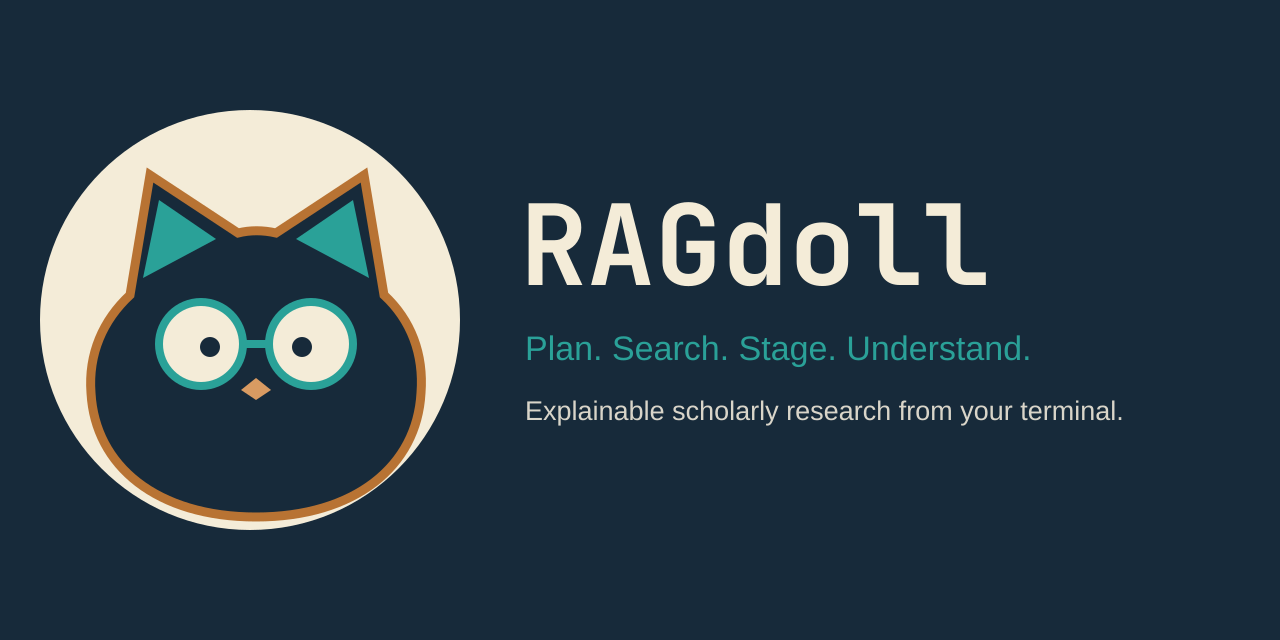
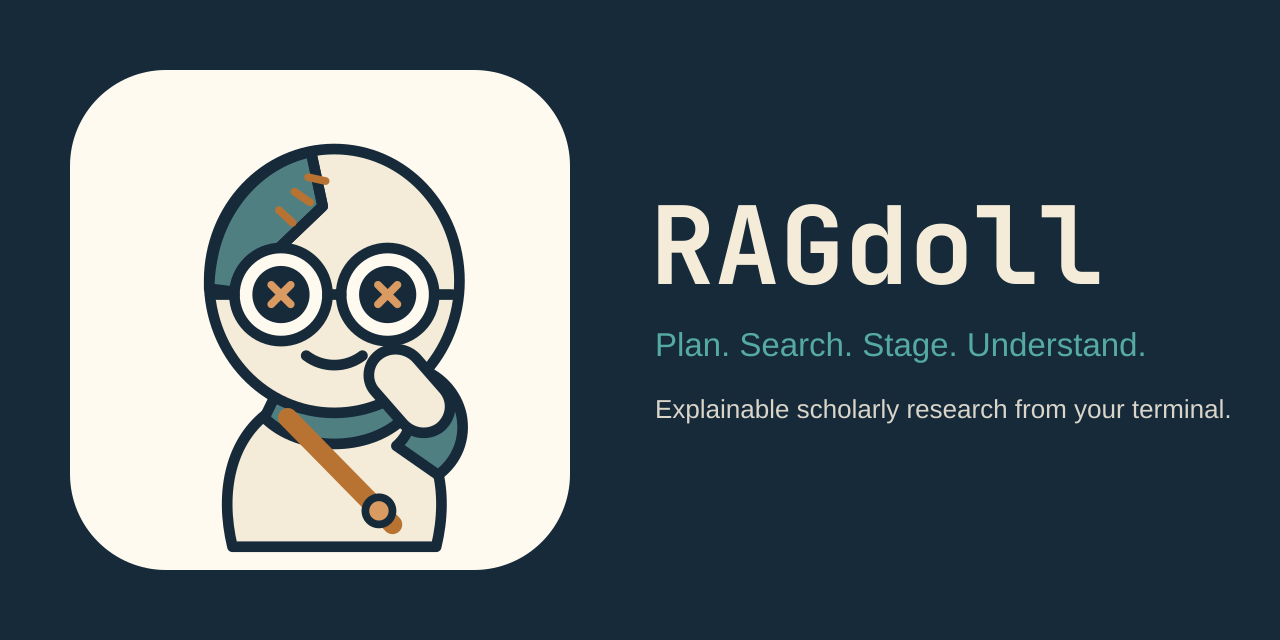
brand RAGdoll with minimalist mascot

Changed region(s): [[0.0312, 0.0938, 0.9688, 0.9062]]

diff --git a/src/ragdoll/mascot.py b/src/ragdoll/mascot.py
@@ -1,4 +1,4 @@
-"""Scrollback-safe patchwork-cat terminal companion."""
+"""Scrollback-safe patchwork rag-doll terminal companion."""
 
 from __future__ import annotations
 
@@ -12,20 +12,21 @@ from rich.console import Console, Group
 from rich.live import Live
 from rich.text import Text
 
-WELCOME = r"""
-   /\_/\      .----------------.
-  ( o.o )  __/  curious minds   |
-   > ^ <  /__   leave a trail.  |
-  /|_✕_|\/   '-----------------'
-   /   \      RAGdoll
-""".strip("\n")
+WELCOME = r'''
+    .-""""-.      .----------------.
+   /_x___x_\   __/  curious minds   |
+  | (x)-(x) | /__   leave a trail.  |
+  |    _   ( )   '-----------------'
+   \__|_|__/       RAGdoll
+     /|_|
+'''.strip("\n")
 
 FRAMES = {
-    "planning": [r" /\_/\  ?", r" /\_/\  ??", r" /\_/\  ???"],
-    "searching": [r" /\_/\  ≋", r" /\_/\  ≋≋", r" /\_/\  ≋≋≋"],
-    "staging": [r" /\_/\  [·  ]", r" /\_/\  [·· ]", r" /\_/\  [···]"],
-    "success": [r" /\_/\  ✓", r" /\_/\  ✓✓"],
-    "error": [r" /\_/\  !", r" /\_/\  !!"],
+    "planning": [r" (x)-(x)  ?", r" (x)-(x)  ??", r" (x)-(x)  ???"],
+    "searching": [r" (x)-(x)  ≋", r" (x)-(x)  ≋≋", r" (x)-(x)  ≋≋≋"],
+    "staging": [r" (x)-(x)  [·  ]", r" (x)-(x)  [·· ]", r" (x)-(x)  [···]"],
+    "success": [r" (x)-(x)  ✓", r" (x)-(x)  ✓✓"],
+    "error": [r" (x)-(x)  !", r" (x)-(x)  !!"],
 }
 
 

diff --git a/tests/test_interactive_cli.py b/tests/test_interactive_cli.py
@@ -184,8 +184,10 @@ def test_mascot_static_and_animated(monkeypatch: pytest.MonkeyPatch) -> None:
         pass
     mascot.result("Done")
     mascot.result("Failed", success=False)
-    assert "RAGdoll" in output.getvalue()
-    assert "Thinking" in output.getvalue()
+    rendered = output.getvalue()
+    assert "RAGdoll" in rendered
+    assert "(x)-(x)" in rendered
+    assert "Thinking" in rendered
 
     monkeypatch.delenv("NO_COLOR", raising=False)
     monkeypatch.setattr(sys.stdout, "isatty", lambda: True)

diff --git a/README.md b/README.md
@@ -1,5 +1,5 @@
 <div align="center">
-  <img src="docs/assets/ragdoll-cat.svg" alt="RAGdoll patchwork research cat" width="160">
+  <img src="docs/assets/ragdoll-mascot.svg" alt="RAGdoll minimalist research rag doll" width="160">
   <h1>RAGdoll</h1>
   <p><strong>Turn a research question into an explainable, curated paper collection—from your terminal.</strong></p>
   <p>Adaptive scoping, editable search plans, cross-disciplinary discovery, transparent ranking, and reproducible exports.</p>